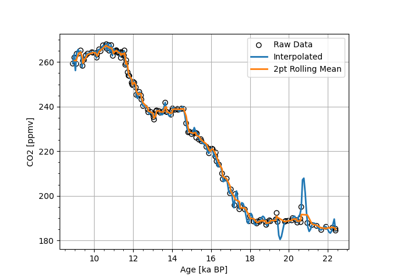
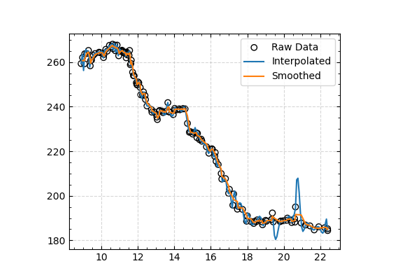
update the plot_scatter example

diff --git a/docs/source/auto_examples/plot_scatterdata.py b/docs/source/auto_examples/plot_scatterdata.py
@@ -4,6 +4,16 @@ Plot the 1D ScatterData
 =========================================
 
 This example shows how to plot the 1D ScatterData object. I use a CO2 data file from the Antarctic EDC ice core (https://doi.pangaea.de/10.1594/PANGAEA.472488) as an example.
+
+The following features are used:
+
+#. Load the data (which just download from Pangaea without any modification)
+
+#. Plot the raw data
+
+#. Plot the interpolated data (based on cubic spline interpolation)
+
+#. Plot the rolling averaged data
 """
 
 from cgeniepy.table import ScatterData
@@ -13,22 +23,23 @@ import matplotlib.pyplot as plt
 edc_co2 = ScatterData("/Users/yingrui/cgeniepy/src/data/EDC_CO2.tab", sep='\t')
 edc_co2.set_index(['Age [ka BP]'])
 
-# Create subplots
-fig, ax = plt.subplots()
+fig = plt.figure(figsize=(5, 4))
+ax = fig.add_subplot(111)
 
 # Plot the raw data
-edc_co2.to_ScatterDataVis().plot(var='CO2 [ppmv]', ax=ax, label='Raw Data', edgecolor='black', facecolor='none', marker='o')
-# Plot the interpolated data (based on cubic spline interpolation)
-interpolated_data = edc_co2.interpolate(var='CO2 [ppmv]').to_dataframe()
-interpolated_data.plot(ax=ax, x='Age [ka BP]', y='interpolated_values', label='Interpolated', linewidth=2)
+edc_co2.plot(var='CO2 [ppmv]', ax=ax, 
+        label='Raw Data', kind='scatter',
+        edgecolor='black', facecolor='none', marker='o')
 
-# Use rolling mean to smooth the data
+# # Plot the interpolated data (based on cubic spline interpolation)
+interpolated_data = edc_co2.interpolate(var='CO2 [ppmv]')
+interpolated_data = ScatterData(interpolated_data)
+interpolated_data.plot(var='CO2 [ppmv]', ax=ax, label='Interpolated', kind='line')
+
+# # Use rolling mean to smooth the data
 smoothed_data = edc_co2.rolling(window=2).mean()
-smoothed_data['CO2 [ppmv]'].plot(ax=ax, label='2pt Rolling Mean', linewidth=2)
+smoothed_data = ScatterData(smoothed_data)
+smoothed_data.plot(var='CO2 [ppmv]', ax=ax, label='Smoothed', kind='line')
 
 ax.legend()
-ax.grid(True)
-ax.minorticks_on()
-
 plt.show()
-

diff --git a/examples/plot_scatterdata.py b/examples/plot_scatterdata.py
@@ -4,6 +4,16 @@ Plot the 1D ScatterData
 =========================================
 
 This example shows how to plot the 1D ScatterData object. I use a CO2 data file from the Antarctic EDC ice core (https://doi.pangaea.de/10.1594/PANGAEA.472488) as an example.
+
+The following features are used:
+
+#. Load the data (which just download from Pangaea without any modification)
+
+#. Plot the raw data
+
+#. Plot the interpolated data (based on cubic spline interpolation)
+
+#. Plot the rolling averaged data
 """
 
 from cgeniepy.table import ScatterData
@@ -13,22 +23,23 @@ import matplotlib.pyplot as plt
 edc_co2 = ScatterData("/Users/yingrui/cgeniepy/src/data/EDC_CO2.tab", sep='\t')
 edc_co2.set_index(['Age [ka BP]'])
 
-# Create subplots
-fig, ax = plt.subplots()
+fig = plt.figure(figsize=(5, 4))
+ax = fig.add_subplot(111)
 
 # Plot the raw data
-edc_co2.to_ScatterDataVis().plot(var='CO2 [ppmv]', ax=ax, label='Raw Data', edgecolor='black', facecolor='none', marker='o')
-# Plot the interpolated data (based on cubic spline interpolation)
-interpolated_data = edc_co2.interpolate(var='CO2 [ppmv]').to_dataframe()
-interpolated_data.plot(ax=ax, x='Age [ka BP]', y='interpolated_values', label='Interpolated', linewidth=2)
+edc_co2.plot(var='CO2 [ppmv]', ax=ax, 
+        label='Raw Data', kind='scatter',
+        edgecolor='black', facecolor='none', marker='o')
 
-# Use rolling mean to smooth the data
+# # Plot the interpolated data (based on cubic spline interpolation)
+interpolated_data = edc_co2.interpolate(var='CO2 [ppmv]')
+interpolated_data = ScatterData(interpolated_data)
+interpolated_data.plot(var='CO2 [ppmv]', ax=ax, label='Interpolated', kind='line')
+
+# # Use rolling mean to smooth the data
 smoothed_data = edc_co2.rolling(window=2).mean()
-smoothed_data['CO2 [ppmv]'].plot(ax=ax, label='2pt Rolling Mean', linewidth=2)
+smoothed_data = ScatterData(smoothed_data)
+smoothed_data.plot(var='CO2 [ppmv]', ax=ax, label='Smoothed', kind='line')
 
 ax.legend()
-ax.grid(True)
-ax.minorticks_on()
-
 plt.show()
-

diff --git a/docs/source/auto_examples/plot_scatterdata.rst b/docs/source/auto_examples/plot_scatterdata.rst
@@ -24,7 +24,17 @@ Plot the 1D ScatterData
 
 This example shows how to plot the 1D ScatterData object. I use a CO2 data file from the Antarctic EDC ice core (https://doi.pangaea.de/10.1594/PANGAEA.472488) as an example.
 
-.. GENERATED FROM PYTHON SOURCE LINES 8-35
+The following features are used:
+
+#. Load the data (which just download from Pangaea without any modification)
+
+#. Plot the raw data
+
+#. Plot the interpolated data (based on cubic spline interpolation)
+
+#. Plot the rolling averaged data
+
+.. GENERATED FROM PYTHON SOURCE LINES 18-46
 
 
 
@@ -34,8 +44,18 @@ This example shows how to plot the 1D ScatterData object. I use a CO2 data file 
    :class: sphx-glr-single-img
 
 
+.. rst-class:: sphx-glr-script-out
+
+ .. code-block:: none
+
+    <frozen importlib._bootstrap>:241: RuntimeWarning: scipy._lib.messagestream.MessageStream size changed, may indicate binary incompatibility. Expected 56 from C header, got 64 from PyObject
 
 
+
+
+
+
+|
 
 .. code-block:: Python
 
@@ -47,30 +67,31 @@ This example shows how to plot the 1D ScatterData object. I use a CO2 data file 
     edc_co2 = ScatterData("/Users/yingrui/cgeniepy/src/data/EDC_CO2.tab", sep='\t')
     edc_co2.set_index(['Age [ka BP]'])
 
-    # Create subplots
-    fig, ax = plt.subplots()
+    fig = plt.figure(figsize=(5, 4))
+    ax = fig.add_subplot(111)
 
     # Plot the raw data
-    edc_co2.to_ScatterDataVis().plot(var='CO2 [ppmv]', ax=ax, label='Raw Data', edgecolor='black', facecolor='none', marker='o')
-    # Plot the interpolated data (based on cubic spline interpolation)
-    interpolated_data = edc_co2.interpolate(var='CO2 [ppmv]').to_dataframe()
-    interpolated_data.plot(ax=ax, x='Age [ka BP]', y='interpolated_values', label='Interpolated', linewidth=2)
+    edc_co2.plot(var='CO2 [ppmv]', ax=ax, 
+            label='Raw Data', kind='scatter',
+            edgecolor='black', facecolor='none', marker='o')
 
-    # Use rolling mean to smooth the data
+    # # Plot the interpolated data (based on cubic spline interpolation)
+    interpolated_data = edc_co2.interpolate(var='CO2 [ppmv]')
+    interpolated_data = ScatterData(interpolated_data)
+    interpolated_data.plot(var='CO2 [ppmv]', ax=ax, label='Interpolated', kind='line')
+
+    # # Use rolling mean to smooth the data
     smoothed_data = edc_co2.rolling(window=2).mean()
-    smoothed_data['CO2 [ppmv]'].plot(ax=ax, label='2pt Rolling Mean', linewidth=2)
+    smoothed_data = ScatterData(smoothed_data)
+    smoothed_data.plot(var='CO2 [ppmv]', ax=ax, label='Smoothed', kind='line')
 
     ax.legend()
-    ax.grid(True)
-    ax.minorticks_on()
-
     plt.show()
-
 
 
 .. rst-class:: sphx-glr-timing
 
-   **Total running time of the script:** (0 minutes 0.067 seconds)
+   **Total running time of the script:** (0 minutes 0.838 seconds)
 
 
 .. _sphx_glr_download_auto_examples_plot_scatterdata.py:

diff --git a/docs/source/auto_examples/sg_execution_times.rst b/docs/source/auto_examples/sg_execution_times.rst
@@ -6,7 +6,7 @@
 
 Computation times
 =================
-**00:33.400** total execution time for 15 files **from auto_examples**:
+**00:00.838** total execution time for 15 files **from auto_examples**:
 
 .. container::
 
@@ -32,11 +32,8 @@ Computation times
    * - Example
      - Time
      - Mem (MB)
-   * - :ref:`sphx_glr_auto_examples_plot_d13C_comp.py` (``plot_d13C_comp.py``)
-     - 00:31.951
-     - 0.0
-   * - :ref:`sphx_glr_auto_examples_plot_timeseries.py` (``plot_timeseries.py``)
-     - 00:01.450
+   * - :ref:`sphx_glr_auto_examples_plot_scatterdata.py` (``plot_scatterdata.py``)
+     - 00:00.838
      - 0.0
    * - :ref:`sphx_glr_auto_examples_plot_PO4_distribution.py` (``plot_PO4_distribution.py``)
      - 00:00.000
@@ -48,6 +45,9 @@ Computation times
      - 00:00.000
      - 0.0
    * - :ref:`sphx_glr_auto_examples_plot_coastal_data.py` (``plot_coastal_data.py``)
+     - 00:00.000
+     - 0.0
+   * - :ref:`sphx_glr_auto_examples_plot_d13C_comp.py` (``plot_d13C_comp.py``)
      - 00:00.000
      - 0.0
    * - :ref:`sphx_glr_auto_examples_plot_logo.py` (``plot_logo.py``)
@@ -68,12 +68,12 @@ Computation times
    * - :ref:`sphx_glr_auto_examples_plot_scatter_map.py` (``plot_scatter_map.py``)
      - 00:00.000
      - 0.0
-   * - :ref:`sphx_glr_auto_examples_plot_scatterdata.py` (``plot_scatterdata.py``)
-     - 00:00.000
-     - 0.0
    * - :ref:`sphx_glr_auto_examples_plot_sst_map.py` (``plot_sst_map.py``)
      - 00:00.000
      - 0.0
    * - :ref:`sphx_glr_auto_examples_plot_taylor_diagram.py` (``plot_taylor_diagram.py``)
+     - 00:00.000
+     - 0.0
+   * - :ref:`sphx_glr_auto_examples_plot_timeseries.py` (``plot_timeseries.py``)
      - 00:00.000
      - 0.0

diff --git a/docs/source/auto_examples/index.rst b/docs/source/auto_examples/index.rst
@@ -150,23 +150,6 @@ Below is a gallery of examples
 
 .. raw:: html
 
-    <div class="sphx-glr-thumbcontainer" tooltip="This example shows how to plot the 1D ScatterData object. I use a CO2 data file from the Antarc...">
-
-.. only:: html
-
-  .. image:: /auto_examples/images/thumb/sphx_glr_plot_scatterdata_thumb.png
-    :alt:
-
-  :ref:`sphx_glr_auto_examples_plot_scatterdata.py`
-
-.. raw:: html
-
-      <div class="sphx-glr-thumbnail-title">Plot the 1D ScatterData</div>
-    </div>
-
-
-.. raw:: html
-
     <div class="sphx-glr-thumbcontainer" tooltip="This example uses fake data and fitted model prediction to plot taylor diagram">
 
 .. only:: html
@@ -179,6 +162,23 @@ Below is a gallery of examples
 .. raw:: html
 
       <div class="sphx-glr-thumbnail-title">Plot Taylor Diagram</div>
+    </div>
+
+
+.. raw:: html
+
+    <div class="sphx-glr-thumbcontainer" tooltip="This example shows how to plot the 1D ScatterData object. I use a CO2 data file from the Antarc...">
+
+.. only:: html
+
+  .. image:: /auto_examples/images/thumb/sphx_glr_plot_scatterdata_thumb.png
+    :alt:
+
+  :ref:`sphx_glr_auto_examples_plot_scatterdata.py`
+
+.. raw:: html
+
+      <div class="sphx-glr-thumbnail-title">Plot the 1D ScatterData</div>
     </div>
 
 
@@ -283,8 +283,8 @@ Below is a gallery of examples
    /auto_examples/plot_timeseries
    /auto_examples/plot_logo
    /auto_examples/plot_PO4_distribution
-   /auto_examples/plot_scatterdata
    /auto_examples/plot_taylor_diagram
+   /auto_examples/plot_scatterdata
    /auto_examples/plot_multiple_vars
    /auto_examples/plot_additional_cmap
    /auto_examples/plot_other_models
